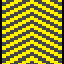
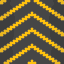
Adjusted textures, added wall collision, and rendered all textures

diff --git a/src/render.py b/src/render.py
@@ -18,21 +18,25 @@ class Rengine:
         topAdjust = float(
             screenDimensions[1]*0.5) - level_.height/2*(rectWidth+1)
 
-        COLOUR = ("white", "red", "black", "yellow", "blue")
         for i in range(level_.boardState.size):
             x = i % level_.width
             y = i//level_.width
-            colour = COLOUR[level_.boardState[x][y].type]
+            colour = "#e1e1e1"
             if len(level_.selection) > 0 and ((x, y) in level_.selection) and \
-                    colour == "white":
+                    level_.boardState[x][y].type == level.Tiles.Type.NONE:
                 colour = "#9FE2BF"
             r = pygame.Rect(
                 leftAdjust + x * rectWidth,
                 topAdjust + y * rectWidth,
                 rectWidth, rectWidth)
-            if (colour == "black"):  # adapt later for other images
-                img = level.ConveyorTile.texture
-                img = pygame.transform.scale(img, (rectWidth, rectWidth))
+
+            if (level_.boardState[x][y].type == level.Tiles.Type.NONE):
+                pygame.draw.rect(screen, colour, r)
+                continue
+
+            img = level_.boardState[x][y].texture
+            img = pygame.transform.scale(img, (rectWidth, rectWidth))
+            try:
                 t = level_.boardState[x][y].direction[0] - \
                     level_.boardState[x][y].position[0]
 
@@ -43,15 +47,16 @@ class Rengine:
 
                 angle = 90*(j) + -90*t
                 img = pygame.transform.rotate(img, angle)
-                rect = img.get_rect()
+            except AttributeError:
+                pass
 
-                rect.move_ip(leftAdjust + x * rectWidth,
-                             topAdjust + y * rectWidth)
-                screen.blit(img, rect)
-                # pygame.draw.rect(screen, colour,
-                #                  rect, 1)
-                continue
-            pygame.draw.rect(screen, colour, r)
+            rect = img.get_rect()
+
+            rect.move_ip(leftAdjust + x * rectWidth,
+                         topAdjust + y * rectWidth)
+            screen.blit(img, rect)
+            # pygame.draw.rect(screen, colour,
+            #                  rect, 1)
 
     def drawObjects(screen: pygame.Surface, level_: level.Level,
                     screenDimensions=(1280, 720)):
@@ -67,8 +72,23 @@ class Rengine:
             screenDimensions[1]*0.5) - level_.height/2*(rectWidth+1)
 
         for obj in level_.objects:
-            pygame.draw.rect(screen, "lime",
-                             pygame.Rect(
-                                 leftAdjust + rectWidth*(obj.position[0]),
-                                 topAdjust + rectWidth*(obj.position[1]),
-                                 rectWidth*obj.scale[0], rectWidth*obj.scale[1]))
+            r = pygame.Rect(
+                leftAdjust + rectWidth*(obj.position[0]),
+                topAdjust + rectWidth*(obj.position[1]),
+                rectWidth*obj.scale[0], rectWidth*obj.scale[1])
+
+            img = obj.texture
+            img = pygame.transform.scale(
+                img, (rectWidth*obj.scale[0], rectWidth*obj.scale[1]))
+
+            rect = img.get_rect()
+
+            rect.move_ip(leftAdjust + obj.position[0] * rectWidth,
+                         topAdjust + obj.position[1] * rectWidth)
+            screen.blit(img, rect)
+
+            # pygame.draw.rect(screen, "lime",
+            #                  pygame.Rect(
+            #                      leftAdjust + rectWidth*(obj.position[0]),
+            #                      topAdjust + rectWidth*(obj.position[1]),
+            #                      rectWidth*obj.scale[0], rectWidth*obj.scale[1]))

diff --git a/src/level.py b/src/level.py
@@ -2,6 +2,12 @@
 import numpy as np
 import pygame
 import os
+
+
+def _normalize(x: (float, float)):
+    n = (x[0]**2 + x[1]**2)**(1/2)
+    assert (n != 0)
+    return (x[0]/n, x[1]/n)
 # %% LEVEL
 
 
@@ -72,13 +78,15 @@ class Level:
 
 
 class Object:
+    texture = pygame.image.load(os.path.join("../assets/", "box.png"))
+
     def __init__(self, x: (float, float), ID, size=(0.8, 0.8)):
         self.position = (x[0] + (1-size[0])/2,
                          x[1] + (1-size[1])/2)
         self.ID = ID
         self.velocity = (0.0, 0.0)
         self.scale = size
-        self.lifespan = 100*1000  # 10 seconds in measued in milisecond
+        self.lifespan = 30*1000  # 10 seconds in measued in milisecond
         self.spawnTime = pygame.time.get_ticks()
 
     def update(self, deltaTime: float, level: Level):
@@ -104,7 +112,36 @@ class Object:
                   (x[1] + size[1]) >= yPos))
         return xAxis and yAxis
 
+    def resolveDirection(self, target: (float, float), size=(1.0, 1.0)):
+        sX, sY = size[0], size[1]
+        compass = [
+            (0.0/sX,  1.0/sY),  # up
+            (1.0/sX,  0.0/sY),  # right
+            (0.0/sX, -1.0/sY),  # down
+            (-1.0/sX, 0.0/sY),  # left
+            (0, 0)  # none
+        ]
+        _max = 0.0
+        bestMatch = 4
+        for i in range(len(compass)):
+            dot_product = np.dot(_normalize(target), compass[i])
+            if (dot_product > _max):
+                _max = dot_product
+                bestMatch = i
+
+        return bestMatch
+
+
 # %% TILES
+
+
+def convertTileImages(screen):
+    ConveyorTile.texture.convert(screen)
+    ReceiverTile.texture.convert(screen)
+    WallTile.texture.convert(screen)
+    GeneratorTile.texture.convert(screen)
+    # Objects too
+    Object.texture.convert(screen)
 
 
 class Tiles:
@@ -145,12 +182,39 @@ class ConveyorTile(Tiles):
 
 
 class WallTile(Tiles):
+    texture = pygame.image.load(os.path.join("../assets/", "wall.png"))
+
     def __init__(self, x: (int, int)):
         self.position = x
         self.type = Tiles.Type.WALL
 
+    def update(self, level: Level):
+        for i in level.objects:
+            if not i.isCollision(self.position):
+                continue
+            pos = (i.position[0]-self.position[0],
+                   i.position[1]-self.position[1])
+            _dir = i.resolveDirection(pos)
+            match _dir:
+                case 0:
+                    y = self.position[1] + 1
+                    i.position = (i.position[0], y)
+                case 1:
+                    x = self.position[0] + 1
+                    i.position = (x, i.position[1])
+                case 2:
+                    y = self.position[1] - i.scale[1]
+                    i.position = (i.position[0], y)
+                case 3:
+                    x = self.position[0] - i.scale[0]
+                    i.position = (x, i.position[1])
+                case 4:
+                    pass
+
 
 class GeneratorTile(Tiles):
+    texture = pygame.image.load(os.path.join("../assets/", "generator.png"))
+
     def __init__(self, x: (int, int), y: (int, int), ID, cycle=5.0):
         self.position = x
         self.output = y
@@ -167,6 +231,8 @@ class GeneratorTile(Tiles):
 
 
 class ReceiverTile(Tiles):
+    texture = pygame.image.load(os.path.join("../assets/", "receiver.png"))
+
     def __init__(self, x: (int, int)):
         self.position = x
         self.type = Tiles.Type.RECEIVER

diff --git a/src/main.py b/src/main.py
@@ -1,16 +1,14 @@
 import pygame
 from level import Level, Tiles, WallTile, GeneratorTile, ConveyorTile, ReceiverTile, Object
+from level import convertTileImages
 from render import Rengine
 import numpy as np
 # %%  TODO
-# - Improve conveyor belt collision detection using AABB
 # - Bug: Clicks not always registered
 # - Add conveyer belt removal
-# - Generator Objects
 # - ✔ Pause Menu
 # - Start Menu
 # - Level loading
-# - Textures (probably max of 64x64)
 # - Colour scheme
 # - PEP8 standard
 SCREEN_DIMENSIONS = (1280, 720)
@@ -24,14 +22,16 @@ def main():
     running = True
     paused = False
     stage = Level(8, 8)
-
-    ConveyorTile.texture.convert(screen)
+    convertTileImages(screen)
 
     # TEST
     # This should not remain in the code after testing and serves no purpose
     # other than making sure things work. Feel free to experiment with it to
     # understand this mess.
     stage.boardState[2, 2] = WallTile((2, 2))
+    stage.boardState[2, 3] = WallTile((2, 3))
+    stage.boardState[2, 4] = WallTile((2, 4))
+
     stage.boardState[4, 2] = GeneratorTile((4, 2), (4, 3), 'test')
     stage.boardState[6, 5] = ConveyorTile((6, 5), (6, 4))
     stage.boardState[2, 1] = ReceiverTile((2, 1))
